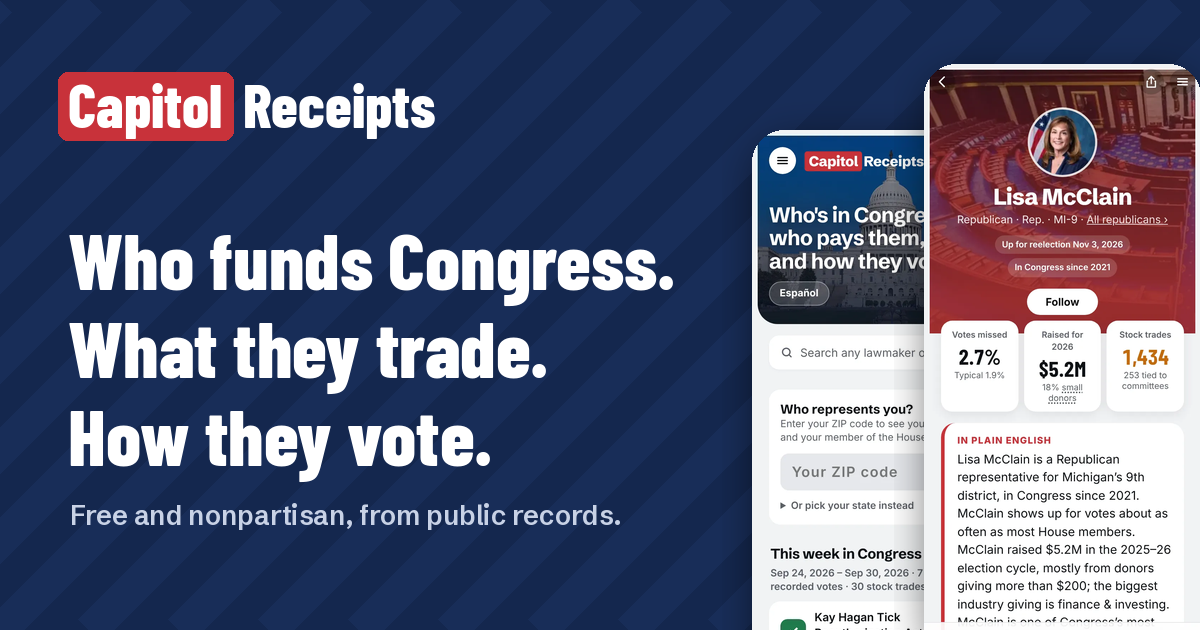
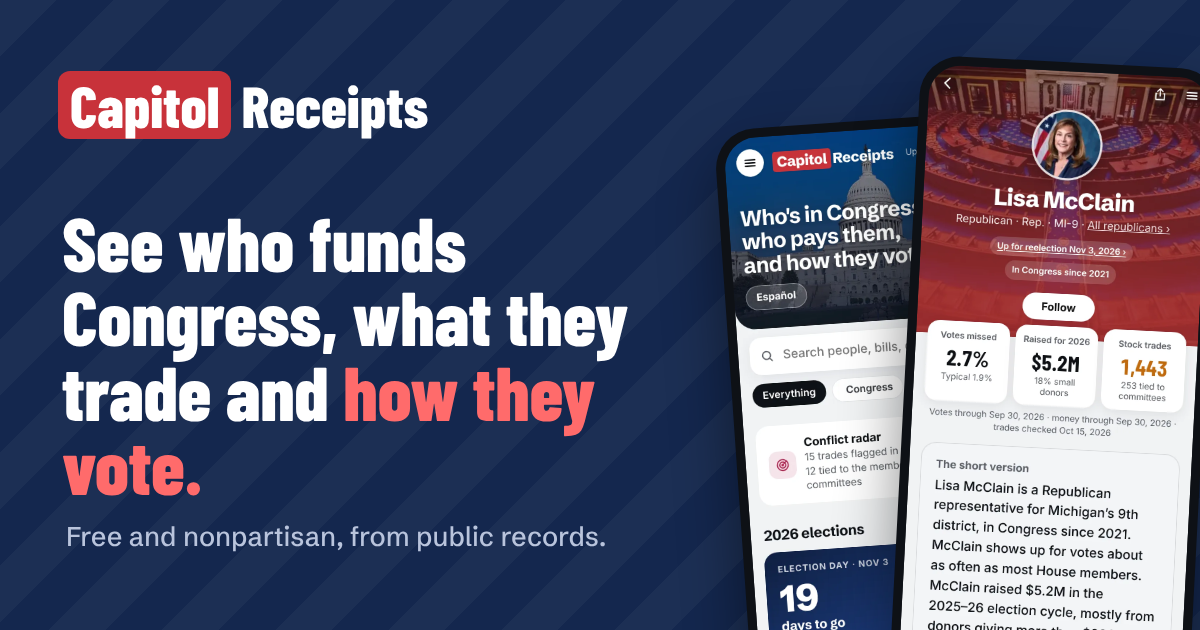
New social share image with current screenshots
Claude-Session: https://claude.ai/code/session_01Ubd33peyMF4BPc9FiMT7ES

Changed region(s): [[0.5858, 0.0905, 1.0, 1.0], [0.0308, 0.3317, 0.555, 0.8746], [0.0617, 0.1206, 0.37, 0.2413]]

diff --git a/site/how-it-works.html b/site/how-it-works.html
@@ -71,13 +71,13 @@ header nav>a:last-child{margin-left:0 !important}
 @media (max-width:480px){header nav>a:last-child{display:none}}
 </style>
 <meta name="robots" content="index,follow,max-image-preview:large">
-<meta property="og:image" content="https://www.capitolreceipts.com/img/share.png">
+<meta property="og:image" content="https://www.capitolreceipts.com/img/share.png?v=20261015">
 <meta property="og:image:width" content="1200">
 <meta property="og:image:height" content="630">
 <meta property="og:image:alt" content="Capitol Receipts: who funds Congress, what they trade, how they vote">
 <meta name="twitter:title" content="How It Works: Where Capitol Receipts Data Comes From">
 <meta name="twitter:description" content="Every number comes from public records: FEC filings, House and Senate disclosures, Voteview votes and lobbying reports. Here is how we count.">
-<meta name="twitter:image" content="https://www.capitolreceipts.com/img/share.png">
+<meta name="twitter:image" content="https://www.capitolreceipts.com/img/share.png?v=20261015">
 <script type="application/ld+json" data-seo>{"@context": "https://schema.org", "@type": "Organization", "@id": "https://www.capitolreceipts.com/#org", "name": "Capitol Receipts", "url": "https://www.capitolreceipts.com/", "logo": "https://www.capitolreceipts.com/favicon.svg", "description": "A nonpartisan app that shows who funds Congress, what members trade, how they vote and who lobbies them, from public records.", "email": "corrections@capitolreceipts.com"}</script>
 <script type="application/ld+json" data-seo>{"@context": "https://schema.org", "@type": "BreadcrumbList", "itemListElement": [{"@type": "ListItem", "position": 1, "name": "Home", "item": "https://www.capitolreceipts.com/"}, {"@type": "ListItem", "position": 2, "name": "How it works", "item": "https://www.capitolreceipts.com/how-it-works"}]}</script>
 <script type="application/ld+json" data-seo>{"@context": "https://schema.org", "@type": "FAQPage", "mainEntity": [{"@type": "Question", "name": "Who pays for Capitol Receipts?", "acceptedAnswer": {"@type": "Answer", "text": "Subscribers and newsrooms. We take no money from parties, campaigns, PACs or lobbyists."}}, {"@type": "Question", "name": "Are you left or right?", "acceptedAnswer": {"@type": "Answer", "text": "Neither. Both parties show up on every list, and every member is measured the same way. If the numbers look bad for one side, that's what the filings say."}}, {"@type": "Question", "name": "Why can't I see some trades in detail?", "acceptedAnswer": {"@type": "Answer", "text": "Some members still file handwritten paper reports. We can't read those reliably, so we link the original scan instead of guessing."}}, {"@type": "Question", "name": "Does a high number mean someone did something wrong?", "acceptedAnswer": {"@type": "Answer", "text": "No. Trading stock is legal, and missing votes can have good reasons. We show the record so you can decide what to ask."}}, {"@type": "Question", "name": "I found a mistake. What now?", "acceptedAnswer": {"@type": "Answer", "text": "Email corrections@capitolreceipts.com with a link to the record. We fix confirmed errors fast and note every correction in the app."}}]}</script>

diff --git a/site/pricing.html b/site/pricing.html
@@ -71,13 +71,13 @@ header nav>a:last-child{margin-left:0 !important}
 @media (max-width:480px){header nav>a:last-child{display:none}}
 </style>
 <meta name="robots" content="index,follow,max-image-preview:large">
-<meta property="og:image" content="https://www.capitolreceipts.com/img/share.png">
+<meta property="og:image" content="https://www.capitolreceipts.com/img/share.png?v=20261015">
 <meta property="og:image:width" content="1200">
 <meta property="og:image:height" content="630">
 <meta property="og:image:alt" content="Capitol Receipts: who funds Congress, what they trade, how they vote">
 <meta name="twitter:title" content="Pricing: Free, or Pro for $4.99 a Month | Capitol Receipts">
 <meta name="twitter:description" content="Every record is free. Pro adds daily alerts, a stock watchlist, the conflict radar and CSV downloads for $4.99 a month or $39 a year. Newsroom plans too.">
-<meta name="twitter:image" content="https://www.capitolreceipts.com/img/share.png">
+<meta name="twitter:image" content="https://www.capitolreceipts.com/img/share.png?v=20261015">
 <script type="application/ld+json" data-seo>{"@context": "https://schema.org", "@type": "Organization", "@id": "https://www.capitolreceipts.com/#org", "name": "Capitol Receipts", "url": "https://www.capitolreceipts.com/", "logo": "https://www.capitolreceipts.com/favicon.svg", "description": "A nonpartisan app that shows who funds Congress, what members trade, how they vote and who lobbies them, from public records.", "email": "corrections@capitolreceipts.com"}</script>
 <script type="application/ld+json" data-seo>{"@context": "https://schema.org", "@type": "BreadcrumbList", "itemListElement": [{"@type": "ListItem", "position": 1, "name": "Home", "item": "https://www.capitolreceipts.com/"}, {"@type": "ListItem", "position": 2, "name": "Pricing", "item": "https://www.capitolreceipts.com/pricing"}]}</script>
 <script type="application/ld+json" data-seo>{"@context": "https://schema.org", "@type": "Product", "name": "Capitol Receipts Pro", "description": "Daily trade alerts, a stock watchlist, the conflict radar and CSV downloads for members of Congress.", "brand": {"@id": "https://www.capitolreceipts.com/#org"}, "offers": [{"@type": "Offer", "name": "Free", "price": "0", "priceCurrency": "USD", "url": "https://www.capitolreceipts.com/pricing"}, {"@type": "Offer", "name": "Pro monthly", "price": "4.99", "priceCurrency": "USD", "url": "https://www.capitolreceipts.com/pricing", "priceSpecification": {"@type": "UnitPriceSpecification", "price": "4.99", "priceCurrency": "USD", "unitCode": "MON"}}, {"@type": "Offer", "name": "Pro yearly", "price": "39", "priceCurrency": "USD", "url": "https://www.capitolreceipts.com/pricing", "priceSpecification": {"@type": "UnitPriceSpecification", "price": "39", "priceCurrency": "USD", "unitCode": "ANN"}}]}</script>

diff --git a/site/index.html b/site/index.html
@@ -63,13 +63,13 @@ header nav>a:last-child{margin-left:0 !important}
 @media (max-width:480px){header nav>a:last-child{display:none}}
 </style>
 <meta name="robots" content="index,follow,max-image-preview:large">
-<meta property="og:image" content="https://www.capitolreceipts.com/img/share.png">
+<meta property="og:image" content="https://www.capitolreceipts.com/img/share.png?v=20261015">
 <meta property="og:image:width" content="1200">
 <meta property="og:image:height" content="630">
 <meta property="og:image:alt" content="Capitol Receipts: who funds Congress, what they trade, how they vote">
 <meta name="twitter:title" content="Capitol Receipts: Who Funds Congress, Stock Trades &amp; Votes">
 <meta name="twitter:description" content="Who funds every member of Congress, what stocks they trade, how they vote and who lobbies them, explained in plain English. Free and nonpartisan.">
-<meta name="twitter:image" content="https://www.capitolreceipts.com/img/share.png">
+<meta name="twitter:image" content="https://www.capitolreceipts.com/img/share.png?v=20261015">
 <script type="application/ld+json" data-seo>{"@context": "https://schema.org", "@type": "Organization", "@id": "https://www.capitolreceipts.com/#org", "name": "Capitol Receipts", "url": "https://www.capitolreceipts.com/", "logo": "https://www.capitolreceipts.com/favicon.svg", "description": "A nonpartisan app that shows who funds Congress, what members trade, how they vote and who lobbies them, from public records.", "email": "corrections@capitolreceipts.com"}</script>
 <script type="application/ld+json" data-seo>{"@context": "https://schema.org", "@type": "WebSite", "name": "Capitol Receipts", "url": "https://www.capitolreceipts.com/", "publisher": {"@id": "https://www.capitolreceipts.com/#org"}}</script>
 <script type="application/ld+json" data-seo>{"@context": "https://schema.org", "@type": "WebApplication", "name": "Capitol Receipts", "url": "https://app.capitolreceipts.com/", "applicationCategory": "ReferenceApplication", "operatingSystem": "Any", "offers": {"@type": "Offer", "price": "0", "priceCurrency": "USD"}, "publisher": {"@id": "https://www.capitolreceipts.com/#org"}}</script>

diff --git a/site/features.html b/site/features.html
@@ -61,13 +61,13 @@ header nav>a:last-child{margin-left:0 !important}
 @media (max-width:480px){header nav>a:last-child{display:none}}
 </style>
 <meta name="robots" content="index,follow,max-image-preview:large">
-<meta property="og:image" content="https://www.capitolreceipts.com/img/share.png">
+<meta property="og:image" content="https://www.capitolreceipts.com/img/share.png?v=20261015">
 <meta property="og:image:width" content="1200">
 <meta property="og:image:height" content="630">
 <meta property="og:image:alt" content="Capitol Receipts: who funds Congress, what they trade, how they vote">
 <meta name="twitter:title" content="Features: Track Congress Money, Stock Trades, Votes &amp; Lobbying">
 <meta name="twitter:description" content="See who funds any member of Congress, every stock trade they make, how they vote and who lobbies them, plus the appointees they confirm. Free and nonpartisan.">
-<meta name="twitter:image" content="https://www.capitolreceipts.com/img/share.png">
+<meta name="twitter:image" content="https://www.capitolreceipts.com/img/share.png?v=20261015">
 <script type="application/ld+json" data-seo>{"@context": "https://schema.org", "@type": "Organization", "@id": "https://www.capitolreceipts.com/#org", "name": "Capitol Receipts", "url": "https://www.capitolreceipts.com/", "logo": "https://www.capitolreceipts.com/favicon.svg", "description": "A nonpartisan app that shows who funds Congress, what members trade, how they vote and who lobbies them, from public records.", "email": "corrections@capitolreceipts.com"}</script>
 <script type="application/ld+json" data-seo>{"@context": "https://schema.org", "@type": "BreadcrumbList", "itemListElement": [{"@type": "ListItem", "position": 1, "name": "Home", "item": "https://www.capitolreceipts.com/"}, {"@type": "ListItem", "position": 2, "name": "Features", "item": "https://www.capitolreceipts.com/features"}]}</script>
 </head>

diff --git a/site/parties.html b/site/parties.html
@@ -71,13 +71,13 @@ header nav>a:last-child{margin-left:0 !important}
 @media (max-width:480px){header nav>a:last-child{display:none}}
 </style>
 <meta name="robots" content="index,follow,max-image-preview:large">
-<meta property="og:image" content="https://www.capitolreceipts.com/img/share.png">
+<meta property="og:image" content="https://www.capitolreceipts.com/img/share.png?v=20261015">
 <meta property="og:image:width" content="1200">
 <meta property="og:image:height" content="630">
 <meta property="og:image:alt" content="Capitol Receipts: who funds Congress, what they trade, how they vote">
 <meta name="twitter:title" content="Democrats vs Republicans: Money, Stock Trades &amp; Votes Compared">
 <meta name="twitter:description" content="Democrats and Republicans side by side: money raised, small-donor share, stock trades per member, attendance and party-line voting, from public records.">
-<meta name="twitter:image" content="https://www.capitolreceipts.com/img/share.png">
+<meta name="twitter:image" content="https://www.capitolreceipts.com/img/share.png?v=20261015">
 <script type="application/ld+json" data-seo>{"@context": "https://schema.org", "@type": "Organization", "@id": "https://www.capitolreceipts.com/#org", "name": "Capitol Receipts", "url": "https://www.capitolreceipts.com/", "logo": "https://www.capitolreceipts.com/favicon.svg", "description": "A nonpartisan app that shows who funds Congress, what members trade, how they vote and who lobbies them, from public records.", "email": "corrections@capitolreceipts.com"}</script>
 <script type="application/ld+json" data-seo>{"@context": "https://schema.org", "@type": "BreadcrumbList", "itemListElement": [{"@type": "ListItem", "position": 1, "name": "Home", "item": "https://www.capitolreceipts.com/"}, {"@type": "ListItem", "position": 2, "name": "Red vs Blue", "item": "https://www.capitolreceipts.com/parties"}]}</script>
 </head>

diff --git a/site/appointees.html b/site/appointees.html
@@ -71,13 +71,13 @@ header nav>a:last-child{margin-left:0 !important}
 @media (max-width:480px){header nav>a:last-child{display:none}}
 </style>
 <meta name="robots" content="index,follow,max-image-preview:large">
-<meta property="og:image" content="https://www.capitolreceipts.com/img/share.png">
+<meta property="og:image" content="https://www.capitolreceipts.com/img/share.png?v=20261015">
 <meta property="og:image:width" content="1200">
 <meta property="og:image:height" content="630">
 <meta property="og:image:alt" content="Capitol Receipts: who funds Congress, what they trade, how they vote">
 <meta name="twitter:title" content="Presidential Appointees: Finances, Ethics Waivers &amp; Senate Votes">
 <meta name="twitter:description" content="Cabinet members, agency heads and ambassadors: who they are, what they own, the ethics waivers they got and how the Senate voted to confirm them.">
-<meta name="twitter:image" content="https://www.capitolreceipts.com/img/share.png">
+<meta name="twitter:image" content="https://www.capitolreceipts.com/img/share.png?v=20261015">
 <script type="application/ld+json" data-seo>{"@context": "https://schema.org", "@type": "Organization", "@id": "https://www.capitolreceipts.com/#org", "name": "Capitol Receipts", "url": "https://www.capitolreceipts.com/", "logo": "https://www.capitolreceipts.com/favicon.svg", "description": "A nonpartisan app that shows who funds Congress, what members trade, how they vote and who lobbies them, from public records.", "email": "corrections@capitolreceipts.com"}</script>
 <script type="application/ld+json" data-seo>{"@context": "https://schema.org", "@type": "BreadcrumbList", "itemListElement": [{"@type": "ListItem", "position": 1, "name": "Home", "item": "https://www.capitolreceipts.com/"}, {"@type": "ListItem", "position": 2, "name": "Appointees", "item": "https://www.capitolreceipts.com/appointees"}]}</script>
 </head>

diff --git a/site/receipts.html b/site/receipts.html
@@ -71,13 +71,13 @@ header nav>a:last-child{margin-left:0 !important}
 @media (max-width:480px){header nav>a:last-child{display:none}}
 </style>
 <meta name="robots" content="index,follow,max-image-preview:large">
-<meta property="og:image" content="https://www.capitolreceipts.com/img/share.png">
+<meta property="og:image" content="https://www.capitolreceipts.com/img/share.png?v=20261015">
 <meta property="og:image:width" content="1200">
 <meta property="og:image:height" content="630">
 <meta property="og:image:alt" content="Capitol Receipts: who funds Congress, what they trade, how they vote">
 <meta name="twitter:title" content="The Receipts: Biggest Stock Traders &amp; Fundraisers in Congress">
 <meta name="twitter:description" content="The biggest stock traders, top fundraisers, most-missed votes and most-lobbied bills in Congress, ranked from public records and updated daily.">
-<meta name="twitter:image" content="https://www.capitolreceipts.com/img/share.png">
+<meta name="twitter:image" content="https://www.capitolreceipts.com/img/share.png?v=20261015">
 <script type="application/ld+json" data-seo>{"@context": "https://schema.org", "@type": "Organization", "@id": "https://www.capitolreceipts.com/#org", "name": "Capitol Receipts", "url": "https://www.capitolreceipts.com/", "logo": "https://www.capitolreceipts.com/favicon.svg", "description": "A nonpartisan app that shows who funds Congress, what members trade, how they vote and who lobbies them, from public records.", "email": "corrections@capitolreceipts.com"}</script>
 <script type="application/ld+json" data-seo>{"@context": "https://schema.org", "@type": "BreadcrumbList", "itemListElement": [{"@type": "ListItem", "position": 1, "name": "Home", "item": "https://www.capitolreceipts.com/"}, {"@type": "ListItem", "position": 2, "name": "The Receipts", "item": "https://www.capitolreceipts.com/receipts"}]}</script>
 </head>

diff --git a/site/newsrooms.html b/site/newsrooms.html
@@ -71,13 +71,13 @@ header nav>a:last-child{margin-left:0 !important}
 @media (max-width:480px){header nav>a:last-child{display:none}}
 </style>
 <meta name="robots" content="index,follow,max-image-preview:large">
-<meta property="og:image" content="https://www.capitolreceipts.com/img/share.png">
+<meta property="og:image" content="https://www.capitolreceipts.com/img/share.png?v=20261015">
 <meta property="og:image:width" content="1200">
 <meta property="og:image:height" content="630">
 <meta property="og:image:alt" content="Capitol Receipts: who funds Congress, what they trade, how they vote">
 <meta name="twitter:title" content="Congress Data for Newsrooms, Reporters &amp; Researchers">
 <meta name="twitter:description" content="Congress data for reporters, researchers and watchdogs: campaign money, stock trades, votes, lobbying and appointees, with a source for every number.">
-<meta name="twitter:image" content="https://www.capitolreceipts.com/img/share.png">
+<meta name="twitter:image" content="https://www.capitolreceipts.com/img/share.png?v=20261015">
 <script type="application/ld+json" data-seo>{"@context": "https://schema.org", "@type": "Organization", "@id": "https://www.capitolreceipts.com/#org", "name": "Capitol Receipts", "url": "https://www.capitolreceipts.com/", "logo": "https://www.capitolreceipts.com/favicon.svg", "description": "A nonpartisan app that shows who funds Congress, what members trade, how they vote and who lobbies them, from public records.", "email": "corrections@capitolreceipts.com"}</script>
 <script type="application/ld+json" data-seo>{"@context": "https://schema.org", "@type": "BreadcrumbList", "itemListElement": [{"@type": "ListItem", "position": 1, "name": "Home", "item": "https://www.capitolreceipts.com/"}, {"@type": "ListItem", "position": 2, "name": "Newsrooms", "item": "https://www.capitolreceipts.com/newsrooms"}]}</script>
 </head>

diff --git a/site/quiz.html b/site/quiz.html
@@ -71,13 +71,13 @@ header nav>a:last-child{margin-left:0 !important}
 @media (max-width:480px){header nav>a:last-child{display:none}}
 </style>
 <meta name="robots" content="index,follow,max-image-preview:large">
-<meta property="og:image" content="https://www.capitolreceipts.com/img/share.png">
+<meta property="og:image" content="https://www.capitolreceipts.com/img/share.png?v=20261015">
 <meta property="og:image:width" content="1200">
 <meta property="og:image:height" content="630">
 <meta property="og:image:alt" content="Capitol Receipts: who funds Congress, what they trade, how they vote">
 <meta name="twitter:title" content="Congress Quiz: Guess the Receipt on Trades, Money &amp; Votes">
 <meta name="twitter:description" content="Who trades the most stock in Congress? Who raised the most money? Test yourself with questions built from real public records, then see the receipt.">
-<meta name="twitter:image" content="https://www.capitolreceipts.com/img/share.png">
+<meta name="twitter:image" content="https://www.capitolreceipts.com/img/share.png?v=20261015">
 <script type="application/ld+json" data-seo>{"@context": "https://schema.org", "@type": "Organization", "@id": "https://www.capitolreceipts.com/#org", "name": "Capitol Receipts", "url": "https://www.capitolreceipts.com/", "logo": "https://www.capitolreceipts.com/favicon.svg", "description": "A nonpartisan app that shows who funds Congress, what members trade, how they vote and who lobbies them, from public records.", "email": "corrections@capitolreceipts.com"}</script>
 <script type="application/ld+json" data-seo>{"@context": "https://schema.org", "@type": "BreadcrumbList", "itemListElement": [{"@type": "ListItem", "position": 1, "name": "Home", "item": "https://www.capitolreceipts.com/"}, {"@type": "ListItem", "position": 2, "name": "Quiz", "item": "https://www.capitolreceipts.com/quiz"}]}</script>
 </head>

diff --git a/site/privacy.html b/site/privacy.html
@@ -71,13 +71,13 @@ header nav>a:last-child{margin-left:0 !important}
 @media (max-width:480px){header nav>a:last-child{display:none}}
 </style>
 <meta name="robots" content="index,follow,max-image-preview:large">
-<meta property="og:image" content="https://www.capitolreceipts.com/img/share.png">
+<meta property="og:image" content="https://www.capitolreceipts.com/img/share.png?v=20261015">
 <meta property="og:image:width" content="1200">
 <meta property="og:image:height" content="630">
 <meta property="og:image:alt" content="Capitol Receipts: who funds Congress, what they trade, how they vote">
 <meta name="twitter:title" content="Privacy Policy | Capitol Receipts">
 <meta name="twitter:description" content="How Capitol Receipts handles your account, payments and data. We don't sell or share who you follow or what you search.">
-<meta name="twitter:image" content="https://www.capitolreceipts.com/img/share.png">
+<meta name="twitter:image" content="https://www.capitolreceipts.com/img/share.png?v=20261015">
 <script type="application/ld+json" data-seo>{"@context": "https://schema.org", "@type": "Organization", "@id": "https://www.capitolreceipts.com/#org", "name": "Capitol Receipts", "url": "https://www.capitolreceipts.com/", "logo": "https://www.capitolreceipts.com/favicon.svg", "description": "A nonpartisan app that shows who funds Congress, what members trade, how they vote and who lobbies them, from public records.", "email": "corrections@capitolreceipts.com"}</script>
 </head>
 <body>

diff --git a/site/terms.html b/site/terms.html
@@ -71,13 +71,13 @@ header nav>a:last-child{margin-left:0 !important}
 @media (max-width:480px){header nav>a:last-child{display:none}}
 </style>
 <meta name="robots" content="index,follow,max-image-preview:large">
-<meta property="og:image" content="https://www.capitolreceipts.com/img/share.png">
+<meta property="og:image" content="https://www.capitolreceipts.com/img/share.png?v=20261015">
 <meta property="og:image:width" content="1200">
 <meta property="og:image:height" content="630">
 <meta property="og:image:alt" content="Capitol Receipts: who funds Congress, what they trade, how they vote">
 <meta name="twitter:title" content="Terms of Service | Capitol Receipts">
 <meta name="twitter:description" content="The terms for using Capitol Receipts and Capitol Receipts Pro, including billing, the free trial and cancellation.">
-<meta name="twitter:image" content="https://www.capitolreceipts.com/img/share.png">
+<meta name="twitter:image" content="https://www.capitolreceipts.com/img/share.png?v=20261015">
 <script type="application/ld+json" data-seo>{"@context": "https://schema.org", "@type": "Organization", "@id": "https://www.capitolreceipts.com/#org", "name": "Capitol Receipts", "url": "https://www.capitolreceipts.com/", "logo": "https://www.capitolreceipts.com/favicon.svg", "description": "A nonpartisan app that shows who funds Congress, what members trade, how they vote and who lobbies them, from public records.", "email": "corrections@capitolreceipts.com"}</script>
 </head>
 <body>

diff --git a/index.html b/index.html
@@ -21,9 +21,9 @@
 <meta property="og:title" content="Capitol Receipts: Who Funds Congress, Their Stock Trades & Votes">
 <meta property="og:description" content="Look up any member of Congress: who funds them, what stocks they trade, how they vote and who lobbies them.">
 <meta property="og:url" content="https://app.capitolreceipts.com/">
-<meta property="og:image" content="https://www.capitolreceipts.com/img/share.png">
+<meta property="og:image" content="https://www.capitolreceipts.com/img/share.png?v=20261015">
 <meta name="twitter:card" content="summary_large_image">
-<meta name="twitter:image" content="https://www.capitolreceipts.com/img/share.png">
+<meta name="twitter:image" content="https://www.capitolreceipts.com/img/share.png?v=20261015">
 <link rel="icon" href="https://www.capitolreceipts.com/favicon.svg" type="image/svg+xml">
 <script type="application/ld+json">{"@context":"https://schema.org","@type":"WebApplication","name":"Capitol Receipts","url":"https://app.capitolreceipts.com/","applicationCategory":"ReferenceApplication","operatingSystem":"Any","description":"Who funds every member of Congress, what stocks they trade, how they vote and who lobbies them, from public records.","offers":{"@type":"Offer","price":"0","priceCurrency":"USD"},"publisher":{"@type":"Organization","name":"Capitol Receipts","url":"https://www.capitolreceipts.com/"}}</script>
 <meta name="theme-color" content="#14274e">
